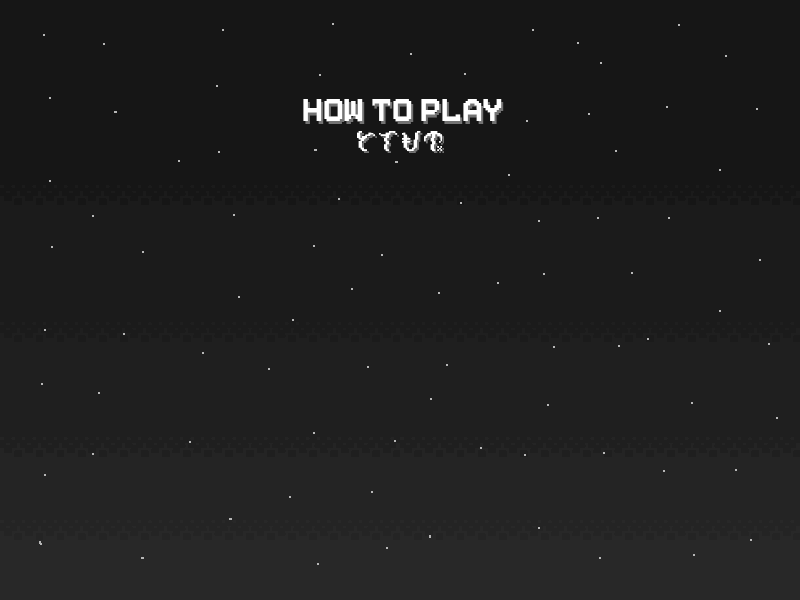
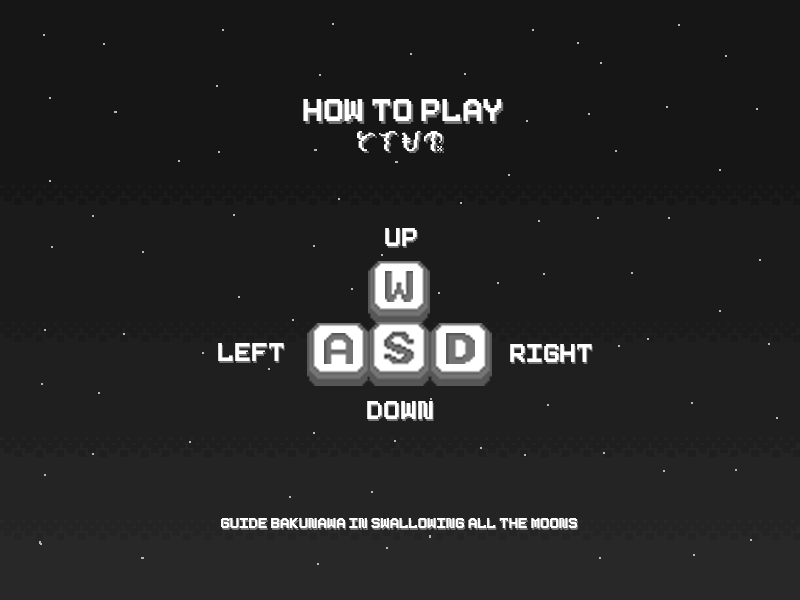
Added instructions and changed some textures.

Changed region(s): [[0.25, 0.36, 0.75, 0.72], [0.2812, 0.84, 0.7188, 0.9]]

diff --git a/projectsample/Functions.cpp b/projectsample/Functions.cpp
@@ -453,8 +453,7 @@ void launchlogo(sf::RenderWindow& window) {
     }
     Sprite stellar;
     stellar.setTexture(logo);
-    stellar.setScale(0.7, 0.7);
-    stellar.setPosition(5, 50);
+    stellar.setScale(1, 1);
 
     window.draw(stellar);
     window.display();
